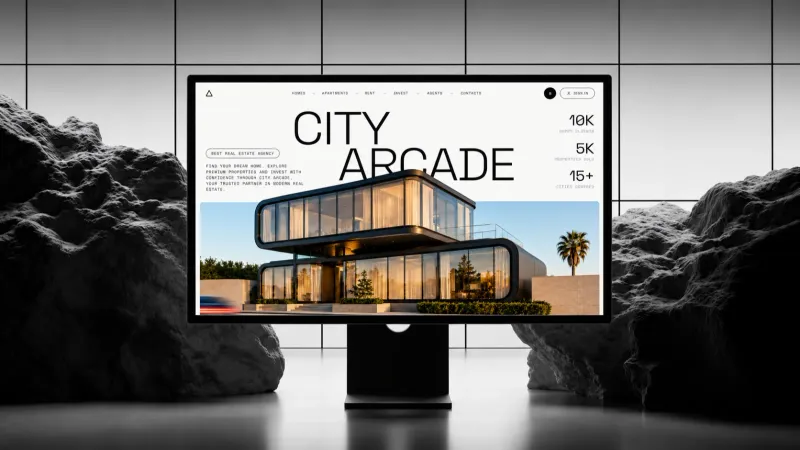
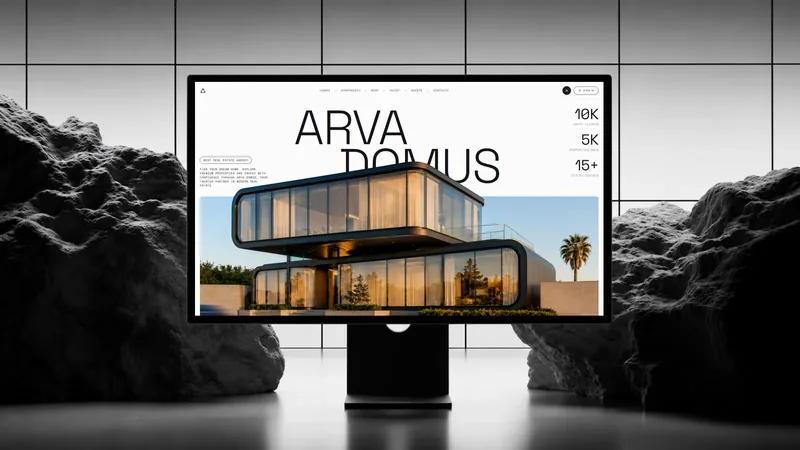
Rename City Arcade to Arva Domus with new captures
The concept was rebuilt and renamed. Its old vercel.app address now
returns 404; the live site is arva-domus.kona-verse.com. New captures
of the rebuilt page (eight desktop, six phone, the cover, and the
/about monitor picture), the case study moved to /work/arva-domus with
a 308 from /work/city-arcade, and its copy rewritten to the new
sections: the flight through the A, four projects, the manifesto, the
reasons, the three.js sun study and the viewing form.

Changed region(s): [[0.25, 0.1556, 0.75, 0.7156]]

diff --git a/src/lib/case-studies.ts b/src/lib/case-studies.ts
@@ -1136,30 +1136,35 @@ export const CASE_STUDIES: CaseStudy[] = [
     service: { name: 'Web development', slug: 'web-development' },
   },
   /* ------------------------------------------------------------------
-     CITY ARCADE — a real-estate concept (FIRST DRAFT, 2026-10-01).
-     A STUDIO CONCEPT like Lumière: no such agency exists, the figures
-     and the three projects on the live page are part of the fiction, and
-     the copy says so. Facts from city-arcade-roan.vercel.app.
+     ARVA DOMUS — a real-estate concept. FIRST DRAFT 2026-10-01 as City
+     Arcade; the concept was rebranded and rebuilt on 2026-10-22 (new
+     sections: the aperture, the manifesto, the reasons, the sun study,
+     the viewing form) and this study rewritten to match. A STUDIO
+     CONCEPT like Lumière: no such company exists, the figures, the
+     address and the four projects on the live page are part of the
+     fiction, the project photographs are licensed stand-ins, and the
+     copy says so. Facts from arva-domus.kona-verse.com and its source
+     (Projects/city_arcade, DESIGN.md).
      ------------------------------------------------------------------ */
   {
-    slug: 'city-arcade',
-    name: 'City Arcade',
-    title: 'City Arcade: a real-estate website concept',
+    slug: 'arva-domus',
+    name: 'Arva Domus',
+    title: 'Arva Domus: a real-estate website concept',
     description:
-      'A studio concept: a one-page site for a real-estate agency, where the building rises out of its own photograph and the work slides across a pinned title.',
+      'A studio concept for a property developer: the building breaks its frame, the camera flies through a letter, and a June day passes over a 3D model.',
     intro: [
-      'City Arcade is a real-estate agency that does not exist. We built its website as a studio piece: one page that shows how a property brand can feel modern and trustworthy at once, without a single stock smile or a search bar wall.',
-      'Property sites are the most copied category on the web. This one was made to answer what an agency could look like if it started from the buildings rather than the listings.',
+      'Arva Domus is a property developer that does not exist. We built its website as a studio piece: one page that shows how a property brand can feel modern and trustworthy at once, without a single stock smile or a search bar wall.',
+      'Property sites are the most copied category on the web. This one was made to answer what a developer could look like if it started from the buildings rather than the listings, and followed one building from the drawing to the lights coming on.',
     ],
     facts: [
       { label: 'Client', value: 'Studio concept' },
       { label: 'Sector', value: 'Real estate (fictional)' },
       { label: 'Year', value: '2026' },
-      { label: 'Services', value: 'Web design, development' },
+      { label: 'Services', value: 'Web design, development, WebGL' },
       { label: 'Format', value: 'One page' },
     ],
-    live: 'https://city-arcade-roan.vercel.app',
-    still: { src: '/work/city-arcade/01.webp', alt: 'The City Arcade homepage: the name set large beside a glass building at golden hour' },
+    live: 'https://arva-domus.kona-verse.com',
+    still: { src: '/work/arva-domus/01.webp', alt: 'The Arva Domus homepage: the name set large, with a glass building at golden hour rising over it' },
     sections: [
       {
         id: 'overview',
@@ -1168,15 +1173,15 @@ export const CASE_STUDIES: CaseStudy[] = [
           {
             kind: 'text',
             paragraphs: [
-              'Agencies come to us asking for the same site: a search bar, a grid of listings, a team page, and a promise of trust that every other agency makes in the same words. We wanted a piece to show them before that conversation, so we invented a client and gave it the site we would argue for.',
-              'City Arcade is that client: a modern agency for homes, apartments, rentals and investment, with a short line of projects across Europe. The agency, its figures and its projects are fiction. The design, the build and the motion are exactly what we would ship.',
+              'Property firms come to us asking for the same site: a search bar, a grid of listings, a team page, and a promise of trust that every other firm makes in the same words. We wanted a piece to show them before that conversation, so we invented a client and gave it the site we would argue for.',
+              'Arva Domus is that client: a developer that buys its own land, designs and builds its homes with its own people and stays on after the keys, with four projects across Europe. The company, its figures, its address and its projects are fiction, and the project photographs are licensed stand-ins. The design, the build and the motion are exactly what we would ship.',
             ],
           },
           {
             kind: 'cards',
             items: [
-              { title: 'Who it is', body: 'A fictional modern real-estate agency: homes, apartments, rentals and investment, with digital tools and local knowledge.' },
-              { title: 'What we gave it', body: 'One photograph of a glass building, a name, four services and three invented projects to show.' },
+              { title: 'Who it is', body: 'A fictional developer in Athens: it owns the land, designs in-house, builds with its own crews and keeps a team on after the sale.' },
+              { title: 'What we gave it', body: 'One photograph of a glass building, a name, four invented projects, four reasons to trust it and one day of June sunlight.' },
               { title: 'What it had to show', body: 'That a property brand can lead with architecture and still read as calm, verified and safe to call.' },
             ],
           },
@@ -1189,8 +1194,8 @@ export const CASE_STUDIES: CaseStudy[] = [
           {
             kind: 'text',
             paragraphs: [
-              'Real-estate sites compete on inventory and look identical because of it. The listing grid is the product, and the brand is whatever colour the header is. A buyer remembers the house, not the agency, and the agency is the one thing that wants to be remembered.',
-              'The brief we set ourselves was to make the agency the first thing you see and the buildings the proof of it, on one page, with nothing a visitor has to learn before they understand who this is.',
+              'Real-estate sites compete on inventory and look identical because of it. The listing grid is the product, and the brand is whatever colour the header is. A buyer remembers the house, not the company, and the company is the one thing that wants to be remembered.',
+              'The brief we set ourselves was to make the company the first thing you see and the buildings the proof of it, on one page, with nothing a visitor has to learn before they understand who this is.',
             ],
           },
         ],
@@ -1202,16 +1207,16 @@ export const CASE_STUDIES: CaseStudy[] = [
           {
             kind: 'text',
             paragraphs: [
-              'The concept is the building breaking out of the frame. The name is set huge in two staggered lines beside a rounded photograph of a glass building, and as you scroll the frame opens and the building rises out of its own picture and over the type.',
-              'The rest is near-monochrome: paper, ink and carbon, with a single sky blue on the arrows. A grotesque for the display type, a mono for the labels. A statement in two tones, four feature cards beside a grey photograph, and then the work, on carbon, under a title as wide as the screen.',
+              'The concept is the building breaking out of the frame. The name is set huge in two staggered lines behind a letterboxed photograph of a glass building; as the page opens, the roofline rises past the frame’s edge and over the name, and as you scroll the frame opens to the full picture.',
+              'The rest is near-monochrome: paper, ink and carbon, with a single sky blue on the arrows. A grotesque for the display type, a mono for the labels. After the feature cards the page becomes one scroll story: the camera flies through the A of BUILT TO STAY into the projects, one sentence carries photographs inside it, four reasons climb a staircase, and a June day passes over a model of the hero building.',
             ],
           },
           {
             kind: 'cards',
             items: [
-              { title: 'Out of the frame', body: 'The full photograph sits in a rounded frame; a cut-out of the building on a taller layer above it rises past the frame’s edge as it opens.' },
-              { title: 'One accent', body: 'Ink, paper and carbon, and one sky blue reserved for the arrows, so every direction on the page is the same colour.' },
-              { title: 'The work over its title', body: 'A pinned OUR WORK sits behind the projects, which slide across it and dim it as they pass.' },
+              { title: 'Out of the frame', body: 'The photograph and a cut-out of the building share one size; the frame clips the photograph while the cut-out rises past its edge and over the name.' },
+              { title: 'Through the letter', body: 'The A of BUILT TO STAY is the logo triangle with the first project inside it. Scroll grows the headline about the triangle until the triangle fills the screen.' },
+              { title: 'One day, in 3D', body: 'The hero building as a white card model: drawn as an elevation, printed from the ground up, then lit through 21 June in Athens until its windows come on.' },
             ],
           },
         ],
@@ -1223,16 +1228,17 @@ export const CASE_STUDIES: CaseStudy[] = [
           {
             kind: 'text',
             paragraphs: [
-              'A Next.js page, server-rendered, with GSAP and ScrollTrigger for the scrubbed moves, Lenis for the scroll on GSAP’s own clock, and Framer Motion for the cards. Every move checks for reduced motion first, and the page reads complete without any of it.',
+              'A Next.js page, server-rendered, with GSAP and ScrollTrigger for the scrubbed and pinned scenes, Lenis for the scroll on GSAP’s own clock, Motion for the feature cards and three.js for the sun study, loaded in its own chunk once the opening has played. Every move checks for reduced motion first, and the page reads complete without any of it.',
             ],
           },
           {
             kind: 'steps',
             items: [
-              { title: 'One clock', body: 'The smooth scroll runs on GSAP’s ticker, so the scrubbed hero, the parallax and the pinned title all read the same scroll position on the same frame.' },
-              { title: 'The frame opens', body: 'The hero frame is a clip-path scrubbed outward while the heading drifts up, so the building and the name trade places as you scroll.' },
-              { title: 'Projects wipe in', body: 'Each project row opens from the bottom by clip-path, its picture settling from a close-up, with a carbon shade and grain scrubbed over it.' },
-              { title: 'Motion is optional', body: 'Every animation is gated on the reduced-motion setting; without it the page is the same page, still.' },
+              { title: 'One clock', body: 'The smooth scroll runs on GSAP’s ticker, so the scrubbed hero, the pinned stages and the 3D scene all read the same scroll position on the same frame.' },
+              { title: 'The frame opens', body: 'The hero window is a clip-path scrubbed past its own edge while the type drifts up behind it, so the building and the name trade places as you scroll.' },
+              { title: 'Through the A', body: 'One pinned stage: the headline and the triangle scale together about the triangle’s centre, then each project wipes up over the last, its photograph settling from a push-in.' },
+              { title: 'A day, scrubbed', body: 'The scene renders only when the scroll changes the shot: the elevation draws itself, a clip plane prints the model, the sun follows its June arc and the windows light one bay at a time.' },
+              { title: 'Motion is optional', body: 'Every animation is gated on the reduced-motion setting; without it each section is laid out still, and the sun study shows the finished building lit at night.' },
             ],
           },
         ],
@@ -1244,16 +1250,16 @@ export const CASE_STUDIES: CaseStudy[] = [
           {
             kind: 'text',
             paragraphs: [
-              'The hardest piece is the hero. One photograph plays two parts: the full picture inside the rounded frame, and a cut-out of the building on a layer three times as tall above it. The frame’s clip-path is scrubbed beyond its own edges while the type moves at another rate, and the two layers have to stay registered at every width, or the building visibly tears from its picture.',
-              'The second decision was to keep it to one page. An agency site grows pages by habit. This one says who the agency is, what it offers, and what it has done, in one scroll, and leaves the listings to the product a real agency would plug in behind it.',
+              'The hardest piece is still the hero. One photograph plays two parts: the full picture inside the frame, and a cut-out of the building at exactly the same size above it. The frame’s clip-path is scrubbed beyond its own edges while the type moves at another rate, and the two layers have to stay registered at every width, or the building visibly tears from its picture.',
+              'The second was the sun study. It had to sit on the page with no visible stage, so its sky is the page’s own paper until the evening, the renderer runs without tone mapping, and the glow waits until the sky is dark so the paper never shines.',
             ],
           },
           {
             kind: 'cards',
             items: [
               { title: 'Two layers, one picture', body: 'Photograph and cut-out share one image and one box, so the building rises out of its own picture instead of floating over it.' },
-              { title: 'Sticky with an overlap', body: 'The work section slides up over the features and holds its title pinned behind the projects, with no extra scroll spent.' },
-              { title: 'One page', body: 'Who, what and proof in a single scroll; the listing engine is the part a real agency brings.' },
+              { title: 'Sheets that slide over', body: 'The manifesto and the viewing form are pulled up a full screen, so each slides over the last frame of the pinned scene before it, with no extra scroll spent.' },
+              { title: 'One page', body: 'Who, what and proof in a single scroll; the listing engine is the part a real developer brings.' },
             ],
           },
         ],
@@ -1272,18 +1278,21 @@ export const CASE_STUDIES: CaseStudy[] = [
             kind: 'list',
             items: [
               'The one-page site, server-rendered',
+              'An opening sequence that hands over to the hero',
               'The building-out-of-the-frame hero',
-              'Count-up figures and feature cards',
-              'The pinned work section with three projects',
+              'The flight through the A into four projects',
+              'A manifesto with photographs set inside the sentence',
+              'The sun study in three.js',
+              'A viewing form, front end only',
               'Reduced-motion fallbacks throughout',
-              'Hosting on Vercel',
+              'Hosting on Vercel, at a kona-verse.com address',
             ],
           },
         ],
       },
     ],
     result: {
-      text: 'City Arcade is a concept, so there are no sales or traffic figures to report and the numbers on its page are part of the fiction. What it does is the job it was built for: it is the site we open when an agency asks what their website could be, and it answers in one scroll.',
+      text: 'Arva Domus is a concept, so there are no sales or traffic figures to report and the numbers on its page are part of the fiction. What it does is the job it was built for: it is the site we open when a property firm asks what their website could be, and it answers in one scroll.',
     },
     service: { name: 'Web design', slug: 'web-design' },
     next: 'los-santos-barbers',

diff --git a/src/lib/service-pages.ts b/src/lib/service-pages.ts
@@ -301,9 +301,9 @@ export const SERVICE_PAGES: ServicePage[] = [
           say: 'It looks fine on a laptop and falls apart on a phone.',
           answer:
             'Most visitors arrive on a phone, and most sites are designed for a desktop and squeezed down afterwards. We design every page at both sizes from the first draft, with the motion written for each, so nothing is left for a breakpoint to decide.',
-          study: 'city-arcade',
-          pictures: ['/work/city-arcade/m-01.webp', '/work/chris-n-clean/m-04.webp'],
-          link: 'City Arcade on a phone',
+          study: 'arva-domus',
+          pictures: ['/work/arva-domus/m-01.webp', '/work/chris-n-clean/m-04.webp'],
+          link: 'Arva Domus on a phone',
         },
       ],
       workTitle: 'Recent web design work',
@@ -311,7 +311,7 @@ export const SERVICE_PAGES: ServicePage[] = [
         { slug: 'velricon', line: 'Senior financial leadership, made to look composed, precise and unmistakably senior.' },
         { slug: 'chris-n-clean', line: 'A cleaning company whose site shows the clean happen before you read a word.' },
         { slug: 'heimat-group', line: 'Three companies introduced as one group, its homes and plans a click away.' },
-        { slug: 'city-arcade', line: 'A studio concept: a property brand that starts from the buildings, not the listings.' },
+        { slug: 'arva-domus', line: 'A studio concept: a property brand that starts from the buildings, not the listings.' },
       ],
       getsTitle: 'What you get',
       gets: [
@@ -662,7 +662,7 @@ export const SERVICE_PAGES: ServicePage[] = [
     ],
     invite: 'Let’s make your page.',
     more: {
-      kindPictures: ['/work/city-arcade/02.webp', '/work/los-santos-barbers/m-02.webp'],
+      kindPictures: ['/work/arva-domus/01.webp', '/work/los-santos-barbers/m-02.webp'],
       fixTitle: 'What one good page fixes',
       problems: [
         {
@@ -701,8 +701,8 @@ export const SERVICE_PAGES: ServicePage[] = [
           line: 'A barbershop page that puts the price, the reviews and the booking button on one screen.',
         },
         {
-          slug: 'city-arcade',
-          line: 'One scroll that says who an agency is, what it offers and what it has done.',
+          slug: 'arva-domus',
+          line: 'One scroll that says who a developer is, what it has built and how to book a viewing.',
         },
       ],
       getsTitle: 'What you get',
@@ -714,7 +714,7 @@ export const SERVICE_PAGES: ServicePage[] = [
         {
           title: 'One argument, in order',
           text: 'Six to eight sections that answer the visitor’s questions as they arrive: what, for whom, proof, price, contact.',
-          pictures: ['/work/los-santos-barbers/04.webp', '/work/city-arcade/04.webp'],
+          pictures: ['/work/los-santos-barbers/04.webp', '/work/arva-domus/06.webp'],
         },
         {
           title: 'One search term, owned',
@@ -723,7 +723,7 @@ export const SERVICE_PAGES: ServicePage[] = [
         {
           title: 'Designed for the phone',
           text: 'The page designed at phone and desktop size, for the visitor who arrives from a social post.',
-          pictures: ['/work/los-santos-barbers/05.webp', '/work/los-santos-barbers/m-04.webp', '/work/city-arcade/m-02.webp'],
+          pictures: ['/work/los-santos-barbers/05.webp', '/work/los-santos-barbers/m-04.webp', '/work/arva-domus/m-02.webp'],
         },
         {
           title: 'A contact route that works',

diff --git a/src/lib/work-projects.ts b/src/lib/work-projects.ts
@@ -3,7 +3,7 @@
  *
  * One list, in the order the cards read them. Tzankatian is OFF the
  * site (user, 2026-10-01: "remove Tzankatian"); Chris N Clean, Heimat
- * Group, TDK and City Arcade join with case studies of their own. `slug` is the case
+ * Group, TDK and Arva Domus join with case studies of their own. `slug` is the case
  * study's future URL (/work/[slug]) and never changes once published.
  *
  * `href` is the LIVE site and is only set where it is known. Velricon's
@@ -124,17 +124,17 @@ export const WORK_PROJECTS: WorkProject[] = [
     phones: Array.from({ length: 6 }, (_, i) => `/work/tdk/m-${String(i + 1).padStart(2, '0')}.webp`),
   },
   {
-    slug: 'city-arcade',
-    name: 'City Arcade',
+    slug: 'arva-domus',
+    name: 'Arva Domus',
     line: 'A real-estate concept where the building rises out of its frame.',
     concept: true,
     year: '2026',
     service: 'Web design',
     serviceSlug: 'web-design',
-    href: 'https://city-arcade-roan.vercel.app',
-    image: '/work/covers/city-arcade.webp',
-    frames: Array.from({ length: 8 }, (_, i) => `/work/city-arcade/${String(i + 1).padStart(2, '0')}.webp`),
-    phones: Array.from({ length: 5 }, (_, i) => `/work/city-arcade/m-${String(i + 1).padStart(2, '0')}.webp`),
+    href: 'https://arva-domus.kona-verse.com',
+    image: '/work/covers/arva-domus.webp',
+    frames: Array.from({ length: 8 }, (_, i) => `/work/arva-domus/${String(i + 1).padStart(2, '0')}.webp`),
+    phones: Array.from({ length: 6 }, (_, i) => `/work/arva-domus/m-${String(i + 1).padStart(2, '0')}.webp`),
   },
 ]
 

diff --git a/next.config.ts b/next.config.ts
@@ -35,6 +35,8 @@ const securityHeaders = [
  *   /pricing (no pricing page will exist — owner, 2026-10-02; prices
  *            live on the service pages; 67 GSC impressions move across)
  *                         → /services
+ *   /work/city-arcade (the concept was renamed Arva Domus, 2026-10-22)
+ *                         → /work/arva-domus
  *
  * TEMPORARY (307) — pages that are coming back at the same URL:
  *   /blog → / (until the blog ships).
@@ -57,6 +59,7 @@ const PERMANENT_REDIRECTS: [string, string][] = [
   ["/projects", "/work"],
   ["/services/videography", "/services"],
   ["/pricing", "/services"],
+  ["/work/city-arcade", "/work/arva-domus"],
 ];
 /* empty since the blog opened (2026-10-03): /blog was the last page
    waiting behind a temporary redirect */

diff --git a/src/components/v4/AboutGridHero.tsx b/src/components/v4/AboutGridHero.tsx
@@ -58,7 +58,7 @@ const CONTENT = {
    *  is the one they named for the first appearance. */
   tiles: [
     { src: '/about-hero/01.webp', alt: 'The Heimat Group website on a laptop held between two hands' },
-    { src: '/about-hero/02.webp', alt: 'The City Arcade real-estate website on a monitor between dark rocks' },
+    { src: '/about-hero/02.webp', alt: 'The Arva Domus real-estate website on a monitor between dark rocks' },
     { src: '/about-hero/03.webp', alt: 'A luxury photobooth company’s website on a monitor rising out of grass' },
     { src: '/about-hero/04.webp', alt: 'The Konaverse wordmark between two birds in flight' } /* ← the opening picture */,
     { src: '/about-hero/05.webp', alt: 'A hand holding a glass card engraved with the Konaverse logo' },

diff --git a/src/app/sitemap.ts b/src/app/sitemap.ts
@@ -39,6 +39,8 @@ const UPDATED: Record<string, Date> = {
   '/work': AUDIT_PASS,
   /* TDK links moved to tdkdb.com (6452139) */
   '/work/tdk': new Date('2026-10-12'),
+  /* City Arcade rebuilt and renamed Arva Domus: new captures and copy */
+  '/work/arva-domus': new Date('2026-10-22'),
   '/services/web-development': AUDIT_PASS,
   '/services/3d-websites': AUDIT_PASS,
   '/services/website-redesign': AUDIT_PASS,

diff --git a/src/app/(v4)/work/page.tsx b/src/app/(v4)/work/page.tsx
@@ -76,7 +76,7 @@ const RUN: { slug: string; name?: string }[] = [
   { slug: 'velricon' },
   { slug: 'heimat-group', name: 'Heimat Group' },
   { slug: 'tdk', name: 'TDK' },
-  { slug: 'city-arcade', name: 'City Arcade' },
+  { slug: 'arva-domus', name: 'Arva Domus' },
 ]
 
 export default function WorkPage() {

diff --git a/tools/seo-gate.js b/tools/seo-gate.js
@@ -29,6 +29,7 @@ const REDIRECTS = [
   ['/projects/web-development', '/work', true],
   ['/services/videography', '/services', true],
   ['/pricing', '/services', true],
+  ['/work/city-arcade', '/work/arva-domus', true],
 ]
 const GONE = ['/llms.txt', '/about.md', '/services/videography.md']
 
